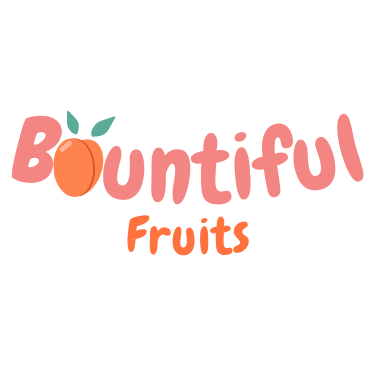
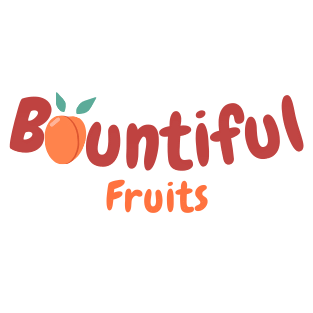
website planning finished

diff --git a/bountiful_foods/planning_doc.html b/bountiful_foods/planning_doc.html
@@ -17,6 +17,16 @@
         <figure>
             <img src="images/Bountiful Foods.png" alt="bountiful logo">           
         </figure>
+        <h2>Color Scheme</h2>
+        <div class="colors">
+            <div class="color1"><p>Primary color</p></div>
+            <div class="color2"><p>Secondary color</p></div>
+            <div class="color3"><p>Accent1</p></div>
+            <div class="color4"><p>Accent2</p></div>
+        </div>
+        <h2>Typography</h2>
+        <h3>Heading Font: Chewy</h3>
+        <h3 class="pDemo">Paragraph Font: DM Sans</h3>
     </div>
     <div class="objectifs">
         <h2>Site Purpose</h2>
@@ -71,7 +81,29 @@
                 <p>Lucas is a 25 year old traveler who is exploring the coastal regions of California for the first time. He is interested in exploring and trying new experiences. He loves to eat healthy and is excited about trying fresh and healthy food for the summer. He learns about Bountiful Foods from a local resident and is immediately intrigued by their commitment to promoting locally grown and organic food. Lucas is especially excited to visit the company's food trucks and experience their unique offerings firsthand. He visits the Bountiful Foods website to learn more about the company's products and services, and to find information about the locations and hours of operation of their food trucks. He is delighted to discover the "build your own specialty drink" feature on the website, which allows him to create a customized fruit drink to his liking.</p>
             </div>            
         </div>
-
+    </div>
+    <div class="map">
+        <h2>Site Map</h2>
+        <img src="images/site-map.png" alt="site map">
+    </div>
+    <div>
+        <h2>Wireframe Sketches</h2>
+        <div class="wireframes">
+            <picture>
+                <img src="images/base-wireframe.png" alt="base wireframe"> 
+                <figcaption>Base view wireframe</figcaption>
+            </picture>
+            <picture>
+                <img src="images/medium-wireframe.png" alt="medium wireframe"> 
+                <figcaption>Medium view wireframe</figcaption>
+            </picture>   
+            <picture>
+                <img src="images/large-wireframe.png" alt="large wireframe"> 
+                <figcaption>Large view wireframe</figcaption>
+            </picture>   
+        </div>
+        <h2>Protopype base example</h2>
+        <img src="images/base-prototype.png" alt="protopype">
     </div>
 </body>
 </html>

diff --git a/bountiful_foods/styles/base.css b/bountiful_foods/styles/base.css
@@ -1,5 +1,5 @@
 :root{
-    --primary-color: #F28482;
+    --primary-color: #bf4341;
     --secondary-color: #FDF5EC;
     --accent1: #437081;
     --accent2: #FF834D;
@@ -46,6 +46,23 @@ p
     font-family: var(--paragraph-font);
     padding: 0.5rem;
 }
+.colors{
+    border: none;
+    display: flex;
+    justify-content: space-evenly;
+}
+.color1{
+    background-color: var(--primary-color);
+}
+.color3{
+    background-color: var(--accent1);
+}
+.color4{
+    background-color: var(--accent2);
+}
+.pDemo{
+    font-family: var(--paragraph-font);
+}
 div{
     background-color: var(--secondary-color);
     border: solid 2px var(--accent1);
@@ -54,10 +71,7 @@ div{
 }
 
 .clients{
-    display: flex;
     border: none;
-    align-items: center;
-    justify-content:space-evenly;
 }
 
 .persona1,
@@ -65,9 +79,7 @@ div{
 {
     display: flex;
     flex-direction: column;
-    min-height: 40rem;
     padding: 0.2rem;
-    height: 100%;
 }
 table{
     border: solid 2px var(--accent1);
@@ -84,4 +96,15 @@ tr td {
 table tbody td{
     background-color: var(--secondary-color);
     color: var(--accent1);
+}
+
+.wireframes{
+    border: none;
+    display: flex;
+    justify-content: space-around;
+}
+
+.map img{
+    width: 40rem;
+    margin: 0.5rem;
 }
